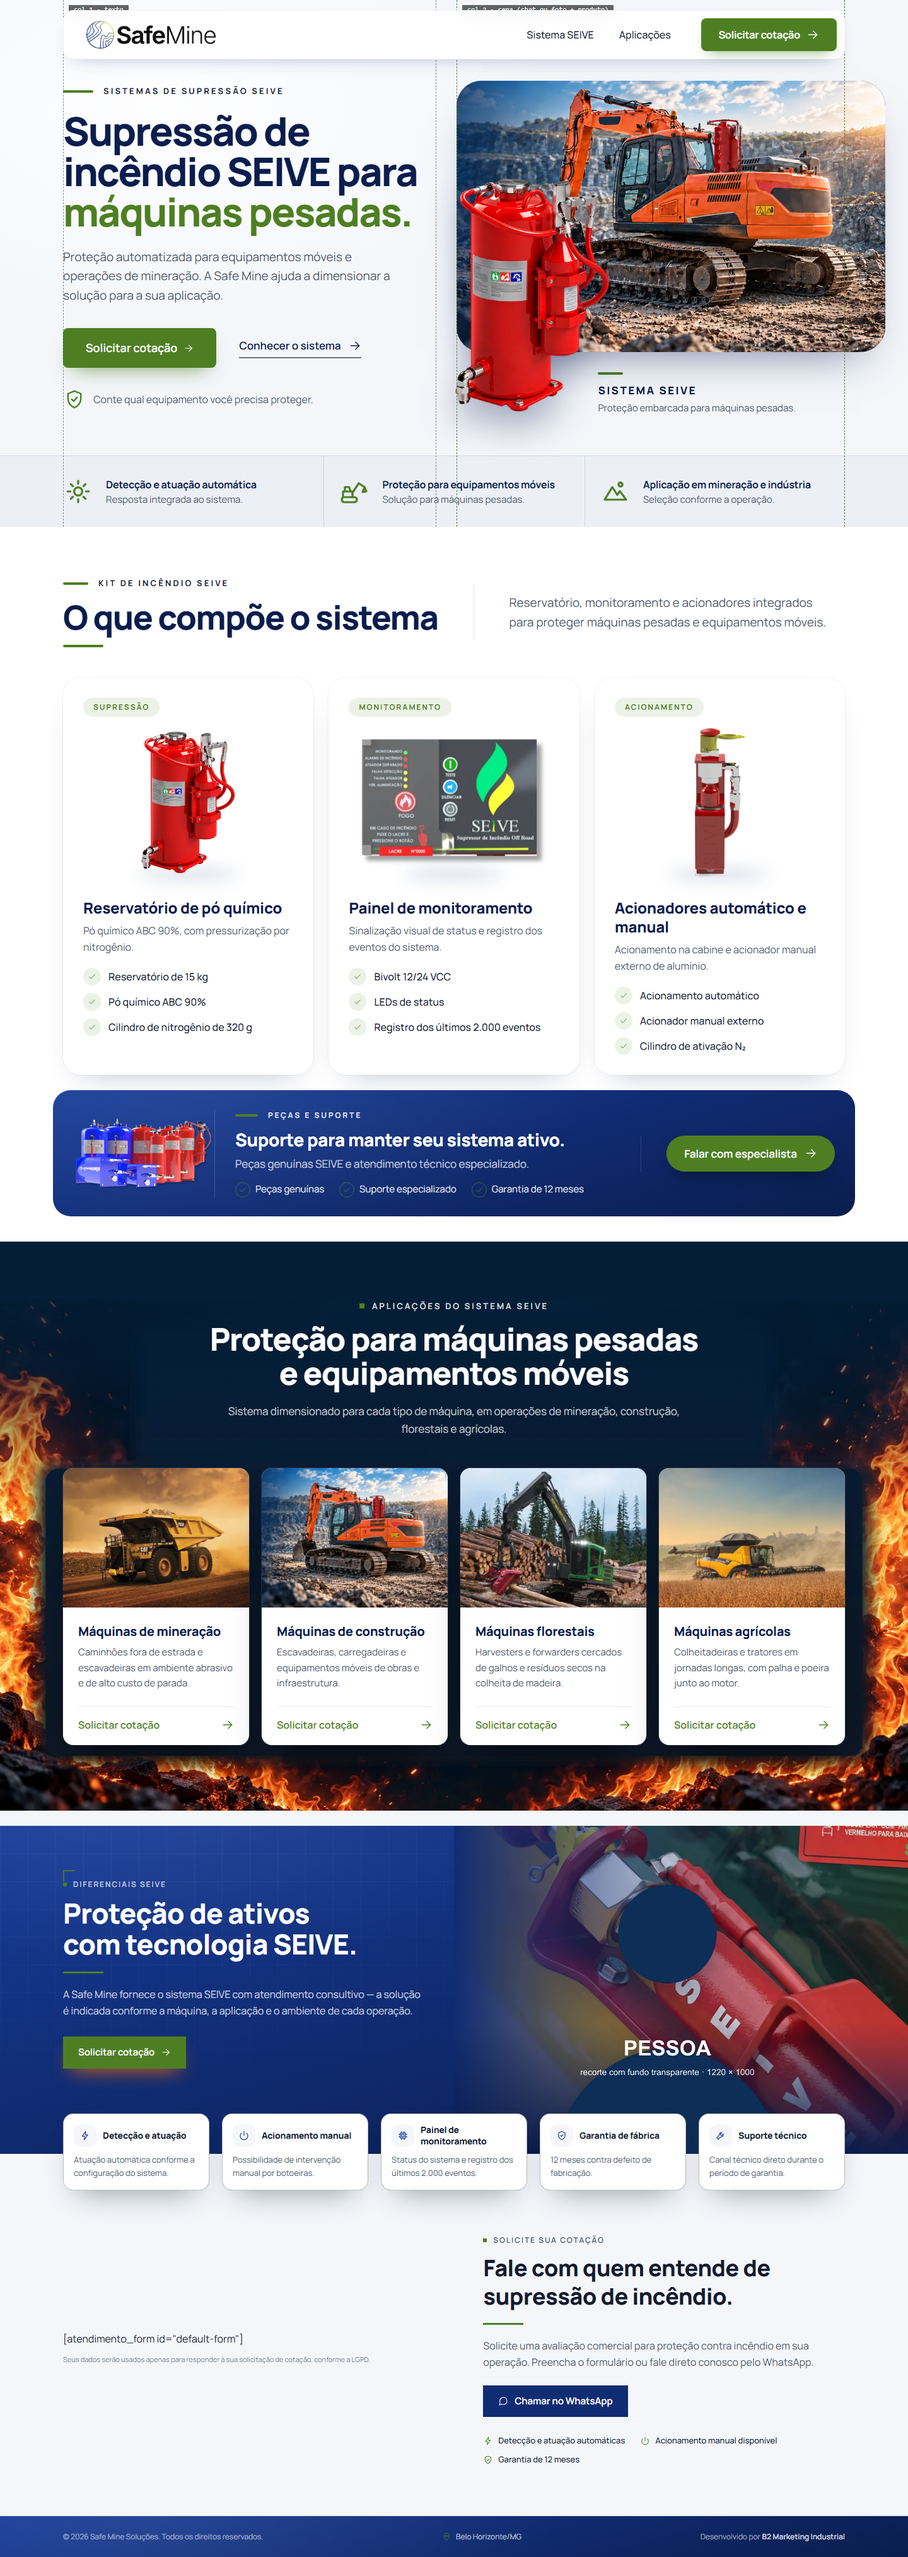
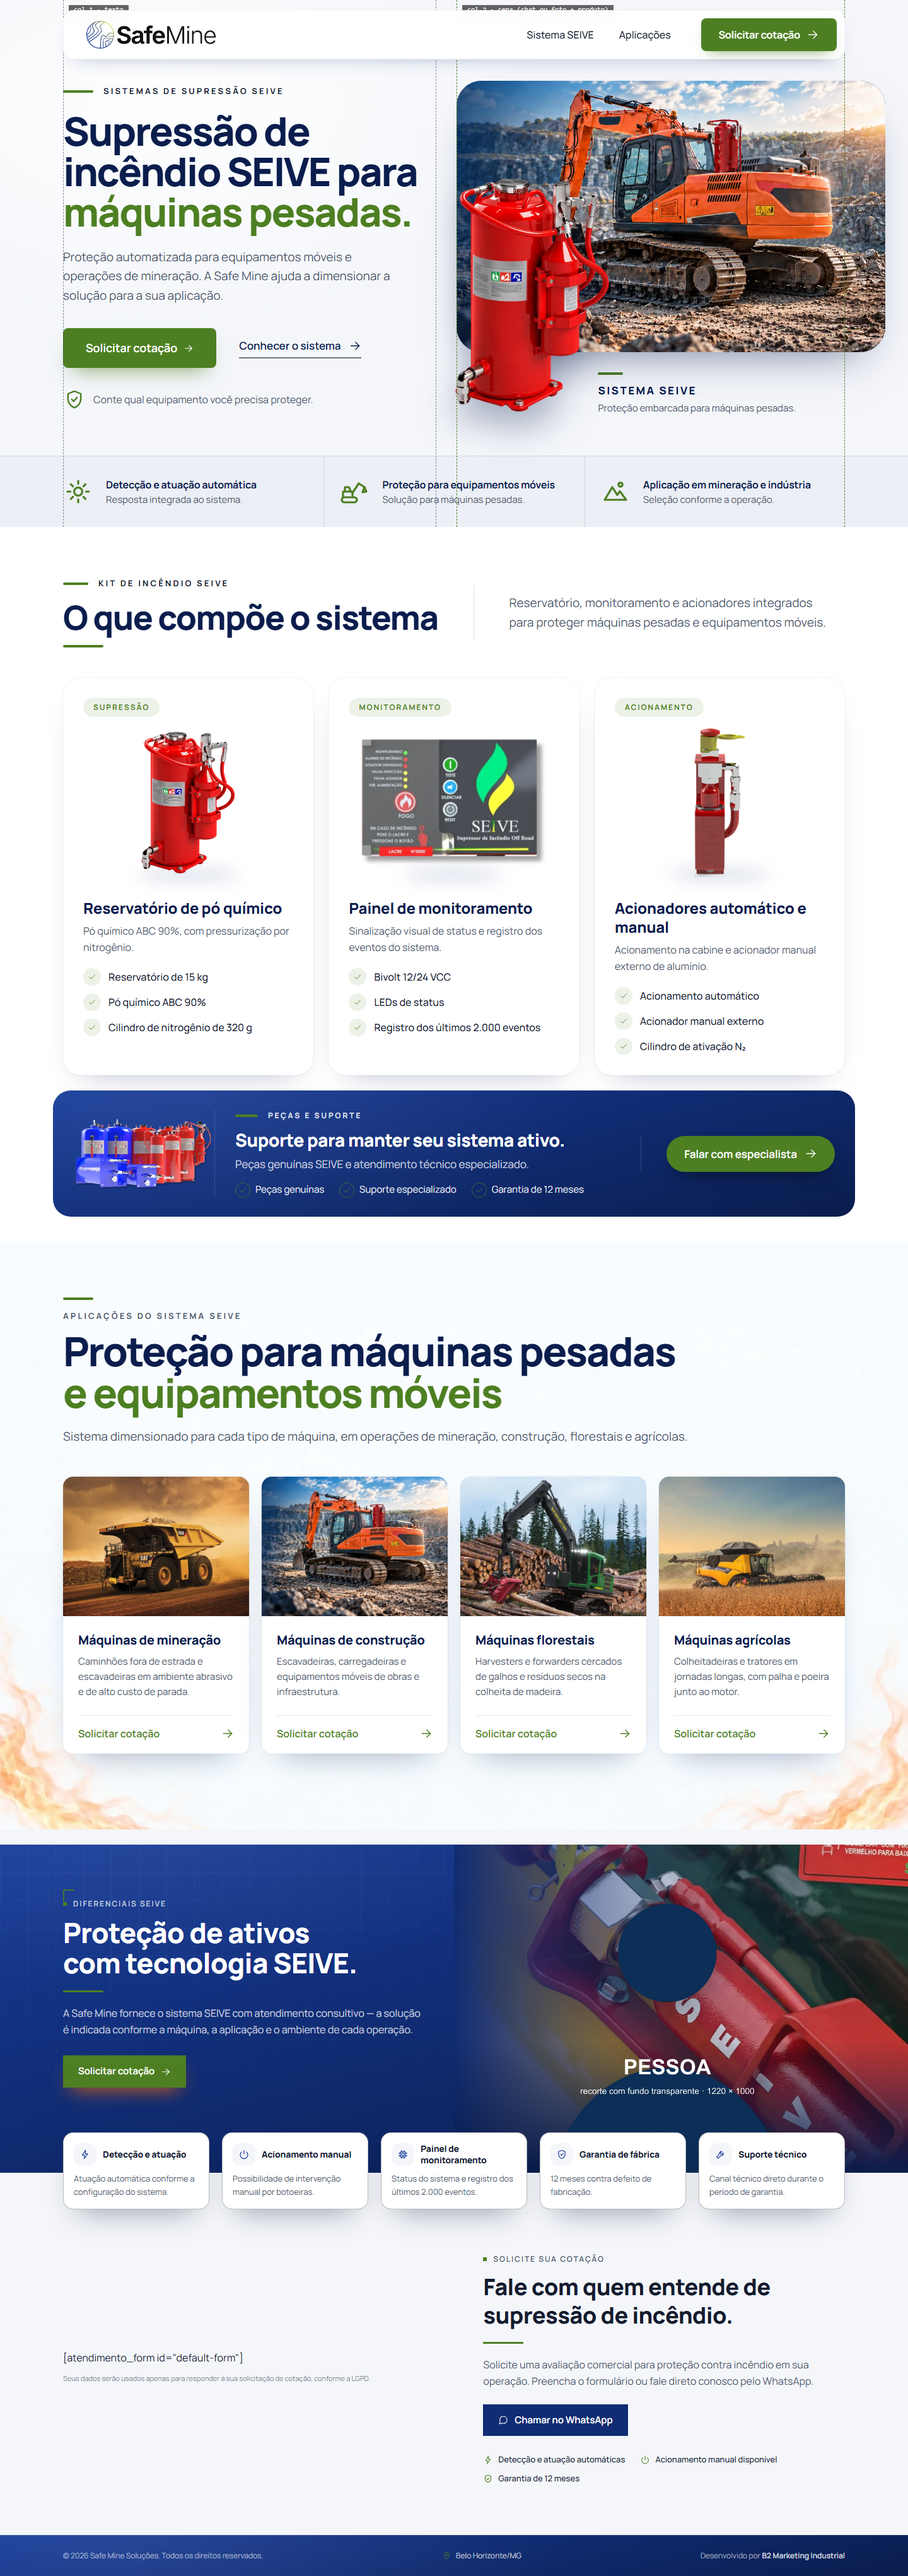
feat: aplicações na versão clara do mockup
Fundo claro com chamas suaves nos cantos de baixo (fundo limpo enviado
pelo cliente), cabeçalho à esquerda com traço verde e a segunda linha do
título em verde; cards com sombra suave. O fundo escuro anterior saiu.
Desvio atualizado no BRIEFING.md.

diff --git a/docs/BRIEFING.md b/docs/BRIEFING.md
@@ -173,12 +173,12 @@ A pedido do usuário, a seção `identificar` (painel navy com os 6 dados para c
 - A ficha mantém o bloco `identificar` (com comentário), e `npm run ficha` ainda o deriva na fase de apoio — a composição aplicada difere da derivada de propósito. **Não rode `npm run compose` sem reaplicar esta exceção.**
 - Alternativa que respeitaria o padrão: a seção "Como funciona" (`processo`, veredicto `quase`) no lugar do painel.
 
-## Desvio aprovado: aplicações sobre chamas (29/10/2026)
+## Desvio aprovado: aplicações sobre chamas (29–30/10/2026)
 
-A pedido do usuário, `src/components/sections/ApplicationsGallery.astro` (seção `aplicacoes`) segue o mockup "Heavy machinery applications over cinematic flames.png":
+A pedido do usuário, `src/components/sections/ApplicationsGallery.astro` (seção `aplicacoes`) segue o mockup claro "SEIVE Fire Protection for Heavy Equipment.png" (30/10/2026), que substituiu uma versão escura com chamas aplicada na véspera:
 
-- Fundo escuro com chamas nas laterais e embaixo, em sangria total por baixo do respiro da seção (`src/assets/fundo-chamas.jpg`). O mockup não veio com o fundo limpo: a imagem foi montada a partir dele, cobrindo a área do título e dos cards com o azul-escuro do próprio mockup — essa área fica atrás do conteúdo. A foto encaixa pela largura, ancorada embaixo, para as chamas laterais não serem cortadas. **Pendência:** trocar por um fundo de chamas limpo, sem texto, se o cliente tiver.
-- Cabeçalho centrado em branco ("Aplicações do sistema SEIVE"), título quebrado como no mockup a partir do tablet.
+- Fundo claro com chamas suaves nos cantos de baixo, em sangria total por baixo do respiro da seção (`src/assets/fundo-chamas-claro.jpg`, do arquivo limpo "Pale background with subtle corner flames.png" enviado pelo usuário). A foto encaixa pela largura, ancorada embaixo; acima dela, o mesmo tom claro.
+- Cabeçalho à esquerda: traço verde, eyebrow "Aplicações do sistema SEIVE" e título em duas linhas a partir do tablet, a segunda ("e equipamentos móveis") em verde.
 - Quatro cards brancos com foto, título, descrição e o rodapé "Solicitar cotação →"; cada card é inteiro clicável por um botão sem texto que o cobre (`data-cta="aplicacoes-{id}"`).
 - A foto de construção passou a ser a escavadeira com o reservatório SEIVE, recortada do banner do hero (1120×840).
 - **Atenção:** `npm run compose` sobrescreve este componente com o da biblioteca.
